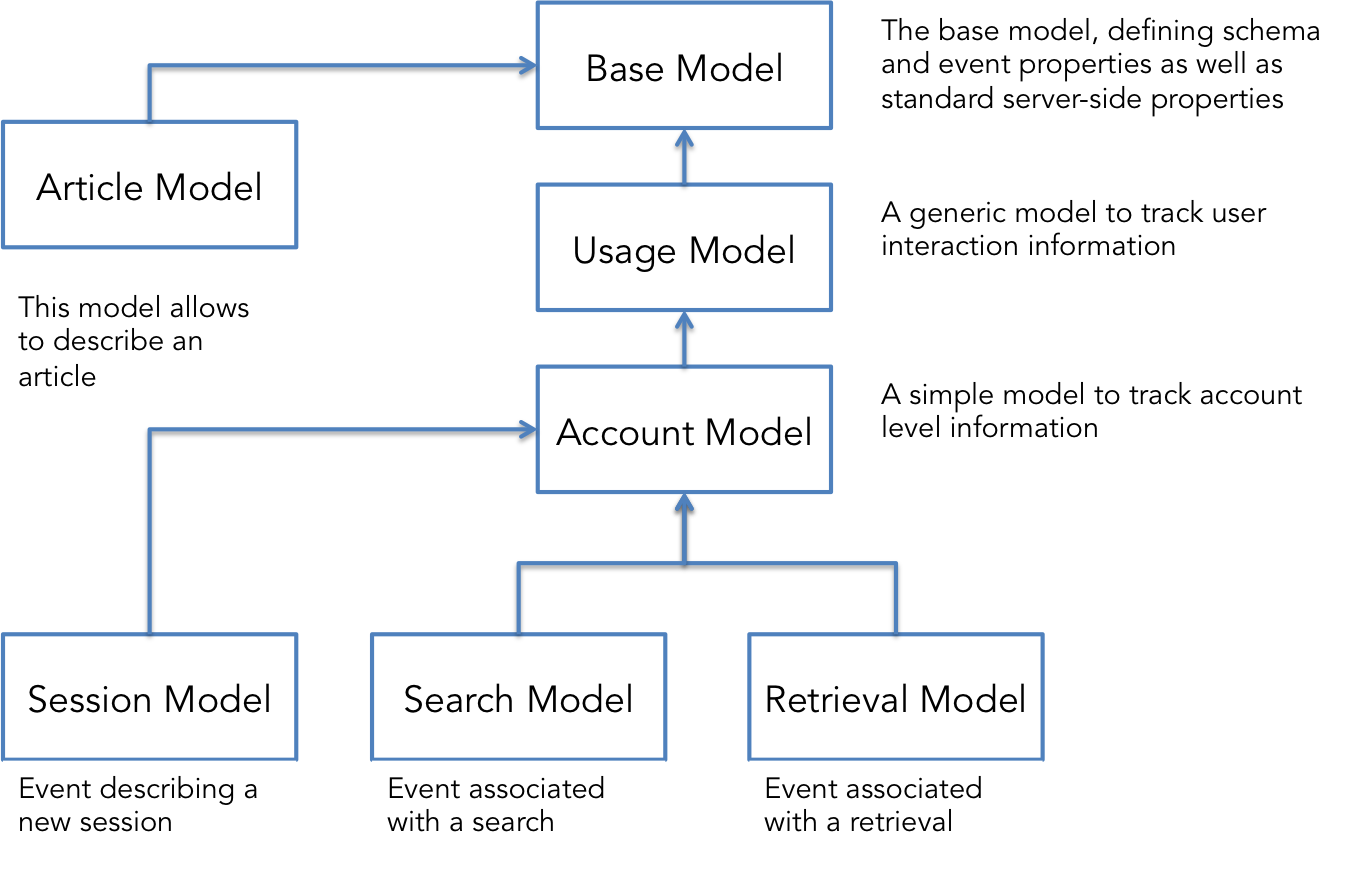
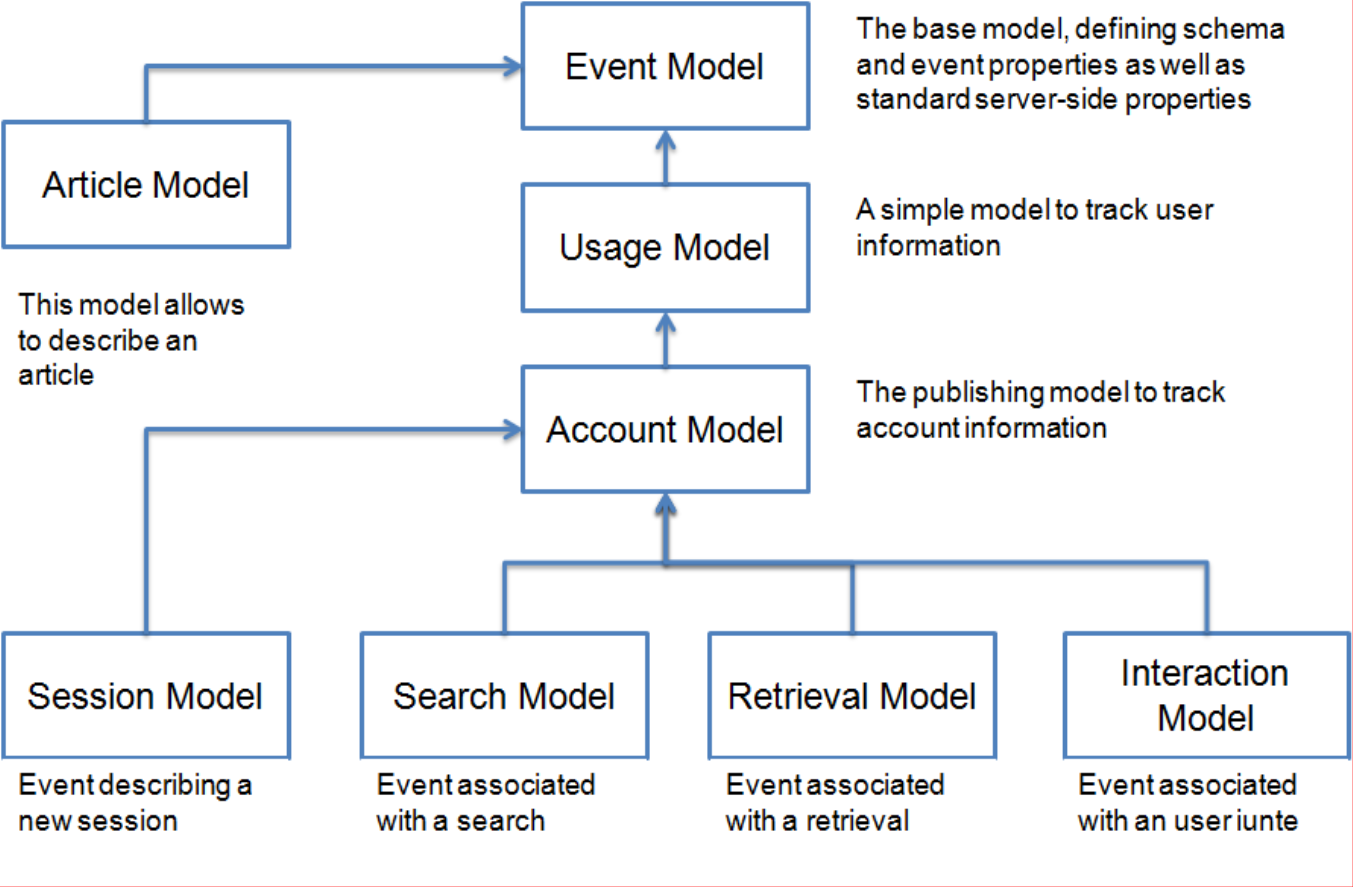
Add interaction model to SST

diff --git a/README.md b/README.md
@@ -15,6 +15,7 @@ If you are looking to implement event-tracking in your application, consider usi
   * [Session Event](#session-event): session level event
   * [Search Event](#search-event): search level event
   * [Retrieval Event](#retrieval-event): retrieval level event
+  * [Interaction Event](#interaction-event): interaction level event
 * [Event Model](#event-model): list the event model hierarchy
   * [Base Model](#base-model): server properties (internal)
   * [Usage Model](#usage-model): generic usage properties common to all events
@@ -26,7 +27,7 @@ If you are looking to implement event-tracking in your application, consider usi
 
 ## Event Types
 
-The API defines 3 types of events
+The API defines 4 types of events
 
 ### Session Event
 
@@ -106,6 +107,45 @@ EventModel event = new RetrievalEvent()
 	.withUserID("sergio")
 	.withPageViewURL("http://myapp/contentPage")
 	.withServerIP("127.0.0.1");
+```
+
+### Interaction Event
+
+This event is created when a user interact with objects. It allow to specify on which content (container) the user interact with, what component is involved if relevant and which action is performed on the container 
+Typical use cases:
+* Add/remove/modify an item in a basket
+* Click event on a content page
+* Create/remove a reference on an item
+* ...
+
+This event includes properties from the following models:
+* Account Model
+* Usage Model
+It can also include reference to Article model.
+
+Following is a example of creating a Interaction event based on the (in Java code):
+```
+// Create the interaction event
+EventModel event = new InteractionEvent ()
+	.withContentId("12345")
+	.withContentType("reference")
+	.withActionType("add")
+	.withContentId("123456")
+	.withContentType("journal")
+	.withInteractionContext(new HashMap<String, Object>(){
+            private static final long serialVersionUID = 7189104737271245194L;
+        {
+            put("a","b");
+            put ("c", 1);
+        }})
+	.withAccountID ("myUniversity")
+	.withAuthenticationMethod ("IPRANGE")
+	.withReferrerURL ("http://google.com")
+	.withHttpReturnCode (202)
+	.withPageViewURL ("http://myDomain.com/landing_page.html")
+	.withSessionID ("1234")
+	.withUserID ("Tom");
+
 ```
 
 ## Event Model
